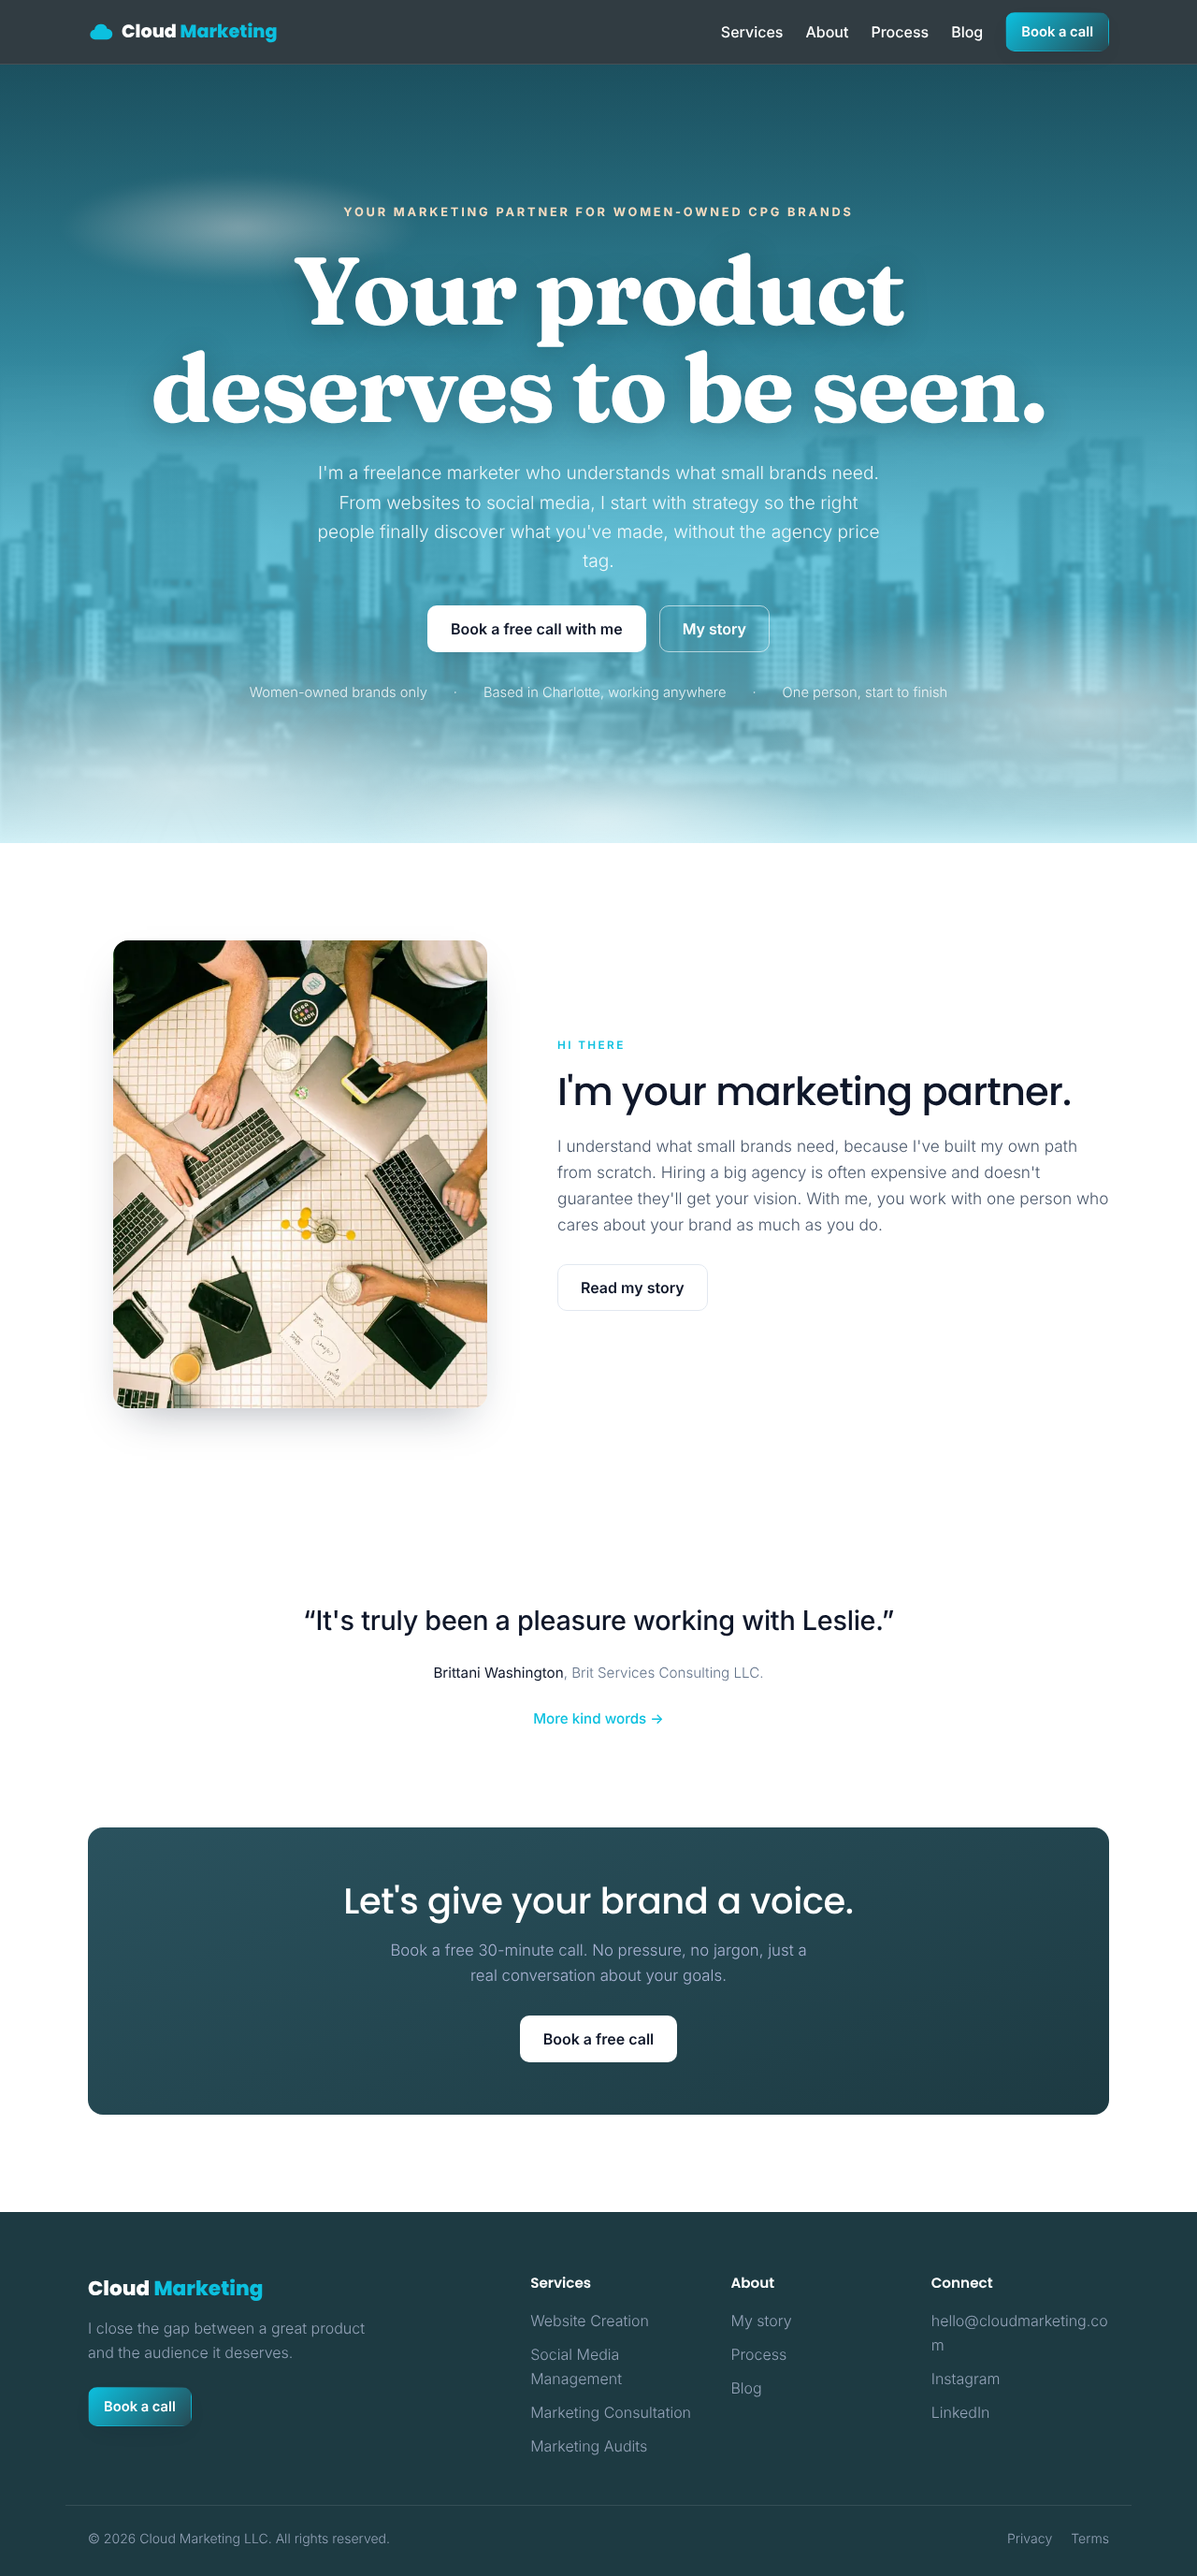
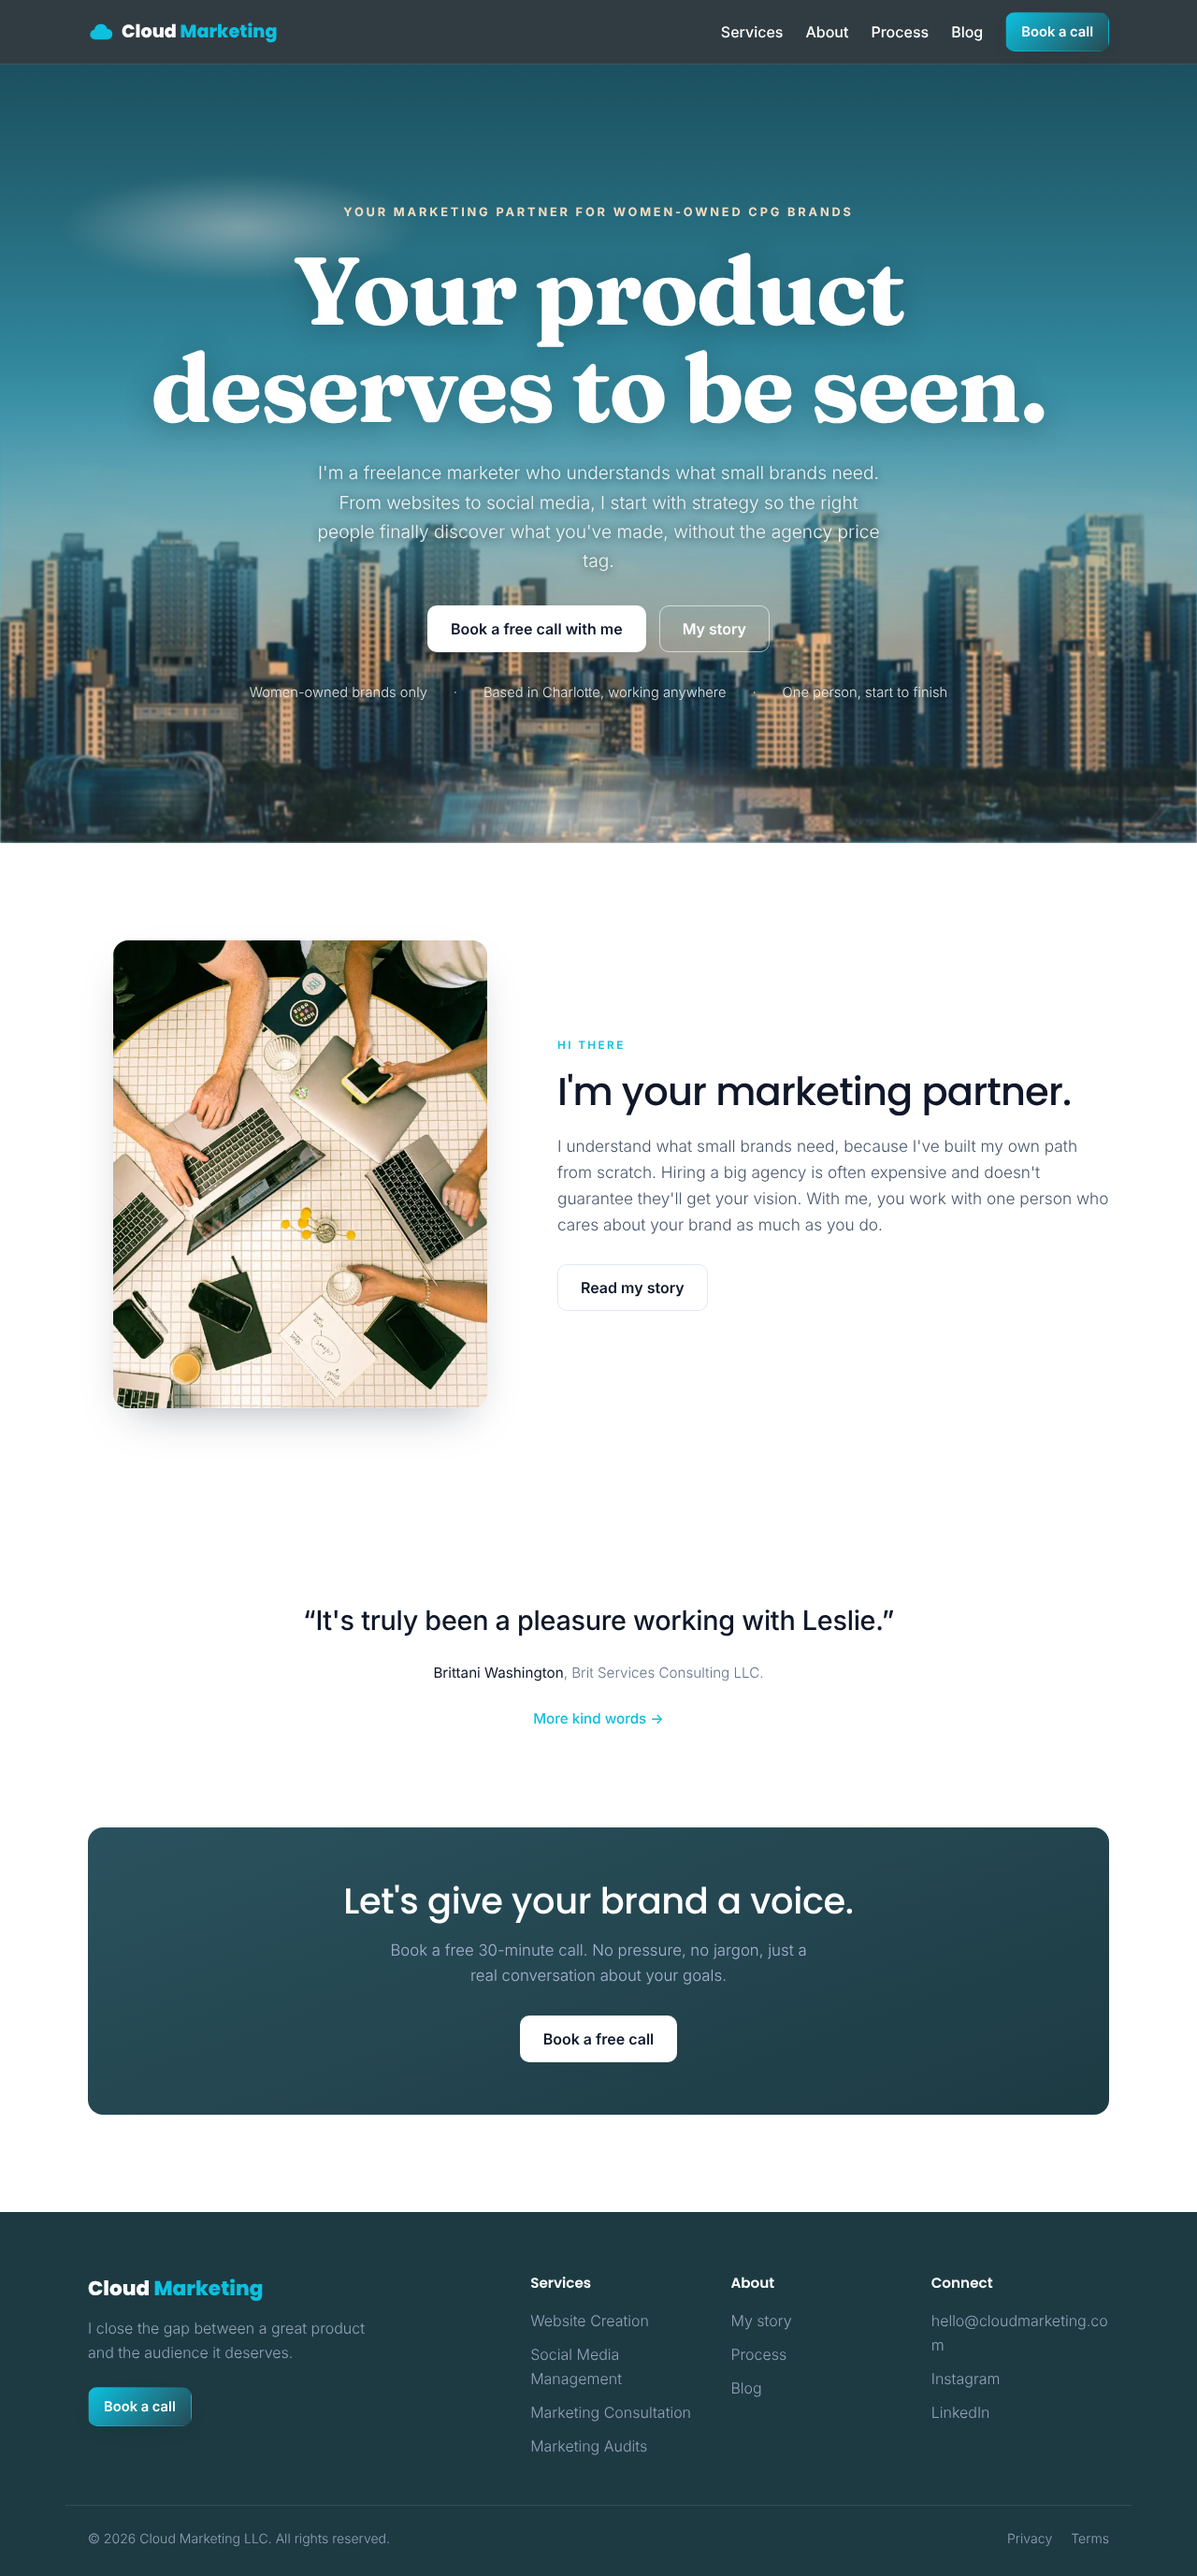
Hero skyline: natural colors, crop out the ground, show more buildings
Claude-Session: https://claude.ai/code/session_01BS6Hv8jWvS9UUisMcfmDfK

Changed region(s): [[0.0, 0.1562, 1.0, 0.3436]]

diff --git a/components/Hero.tsx b/components/Hero.tsx
@@ -8,13 +8,11 @@ export default function Hero() {
         src="/hero-skyline.jpg"
         alt=""
         aria-hidden="true"
-        className="hero-photo absolute inset-x-0 bottom-0 z-0 h-[62%] w-full object-cover object-bottom"
+        className="hero-photo absolute inset-x-0 bottom-0 z-0 h-[58%] w-full object-cover object-bottom"
       />
 
-      {/* Soft drifting clouds, drifting over the base of the skyline */}
+      {/* Soft drifting clouds */}
       <div className="hero-clouds absolute inset-0 z-0" aria-hidden="true">
-        <span className="cloud cloud-1" />
-        <span className="cloud cloud-2" />
         <span className="cloud cloud-3" />
         <span className="cloud cloud-4" />
       </div>
@@ -36,7 +34,7 @@ export default function Hero() {
           <TypedText text="Your product deserves to be seen." speed={55} />
         </h1>
         <p
-          className="anim-up mx-auto max-w-[52ch] text-[1.2rem] leading-relaxed text-white/90"
+          className="anim-up mx-auto max-w-[52ch] text-[1.2rem] leading-relaxed text-white/90 [text-shadow:0_1px_10px_rgba(14,40,48,0.75)]"
           style={{ animationDelay: "160ms" }}
         >
           I&apos;m a freelance marketer who understands what small brands need.
@@ -56,7 +54,7 @@ export default function Hero() {
           </a>
         </div>
         <ul
-          className="anim-up flex flex-wrap justify-center gap-x-7 gap-y-2 text-[0.92rem] text-white/85"
+          className="anim-up flex flex-wrap justify-center gap-x-7 gap-y-2 text-[0.92rem] text-white/85 [text-shadow:0_1px_10px_rgba(14,40,48,0.75)]"
           style={{ animationDelay: "320ms" }}
         >
           <li>Women-owned brands only</li>

diff --git a/app/globals.css b/app/globals.css
@@ -122,16 +122,15 @@ html {
 .hero-photo {
   opacity: 0;
   transform: translateY(24px);
-  /* Takes on the sky's teal-blue and fades out toward the top */
-  mix-blend-mode: luminosity;
-  filter: blur(2px) brightness(1.45) contrast(0.75);
-  -webkit-mask-image: linear-gradient(to top, transparent 0%, #000 25%, #000 45%, transparent 100%);
-  mask-image: linear-gradient(to top, transparent 0%, #000 25%, #000 45%, transparent 100%);
+  /* Natural colors, softened slightly; fades into the sky toward the top */
+  filter: blur(1px) brightness(1.08) saturate(1.1);
+  -webkit-mask-image: linear-gradient(to top, #000 45%, transparent 100%);
+  mask-image: linear-gradient(to top, #000 45%, transparent 100%);
   animation: heroPhotoIn 2.2s cubic-bezier(0.21, 0.6, 0.35, 1) 0.3s forwards;
 }
 @keyframes heroPhotoIn {
   to {
-    opacity: 0.38;
+    opacity: 0.85;
     transform: none;
   }
 }
@@ -250,6 +249,6 @@ html {
 
 @media (prefers-reduced-motion: reduce) {
   .hero-photo {
-    opacity: 0.38 !important;
+    opacity: 0.85 !important;
   }
 }
